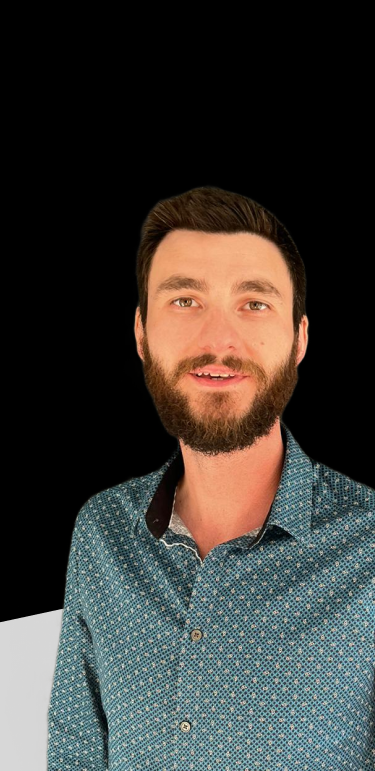
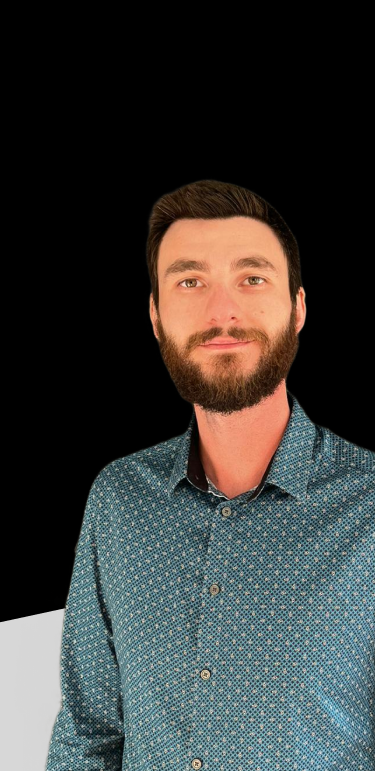
Tri dans les images

diff --git a/resources/views/home/index.blade.php b/resources/views/home/index.blade.php
@@ -52,7 +52,7 @@
                 </div>
             </div>
             <div class="hidden md:block">
-                <img src="{{ Vite::asset('resources/images/image 17.png') }}"
+                <img src="{{ Vite::asset('resources/images/remi-pouly-developpeur-web-freelance.png') }}"
                      alt="Photo de POULY Rémi - Developpeur freelance"
                      width="400" height=""
                 >
